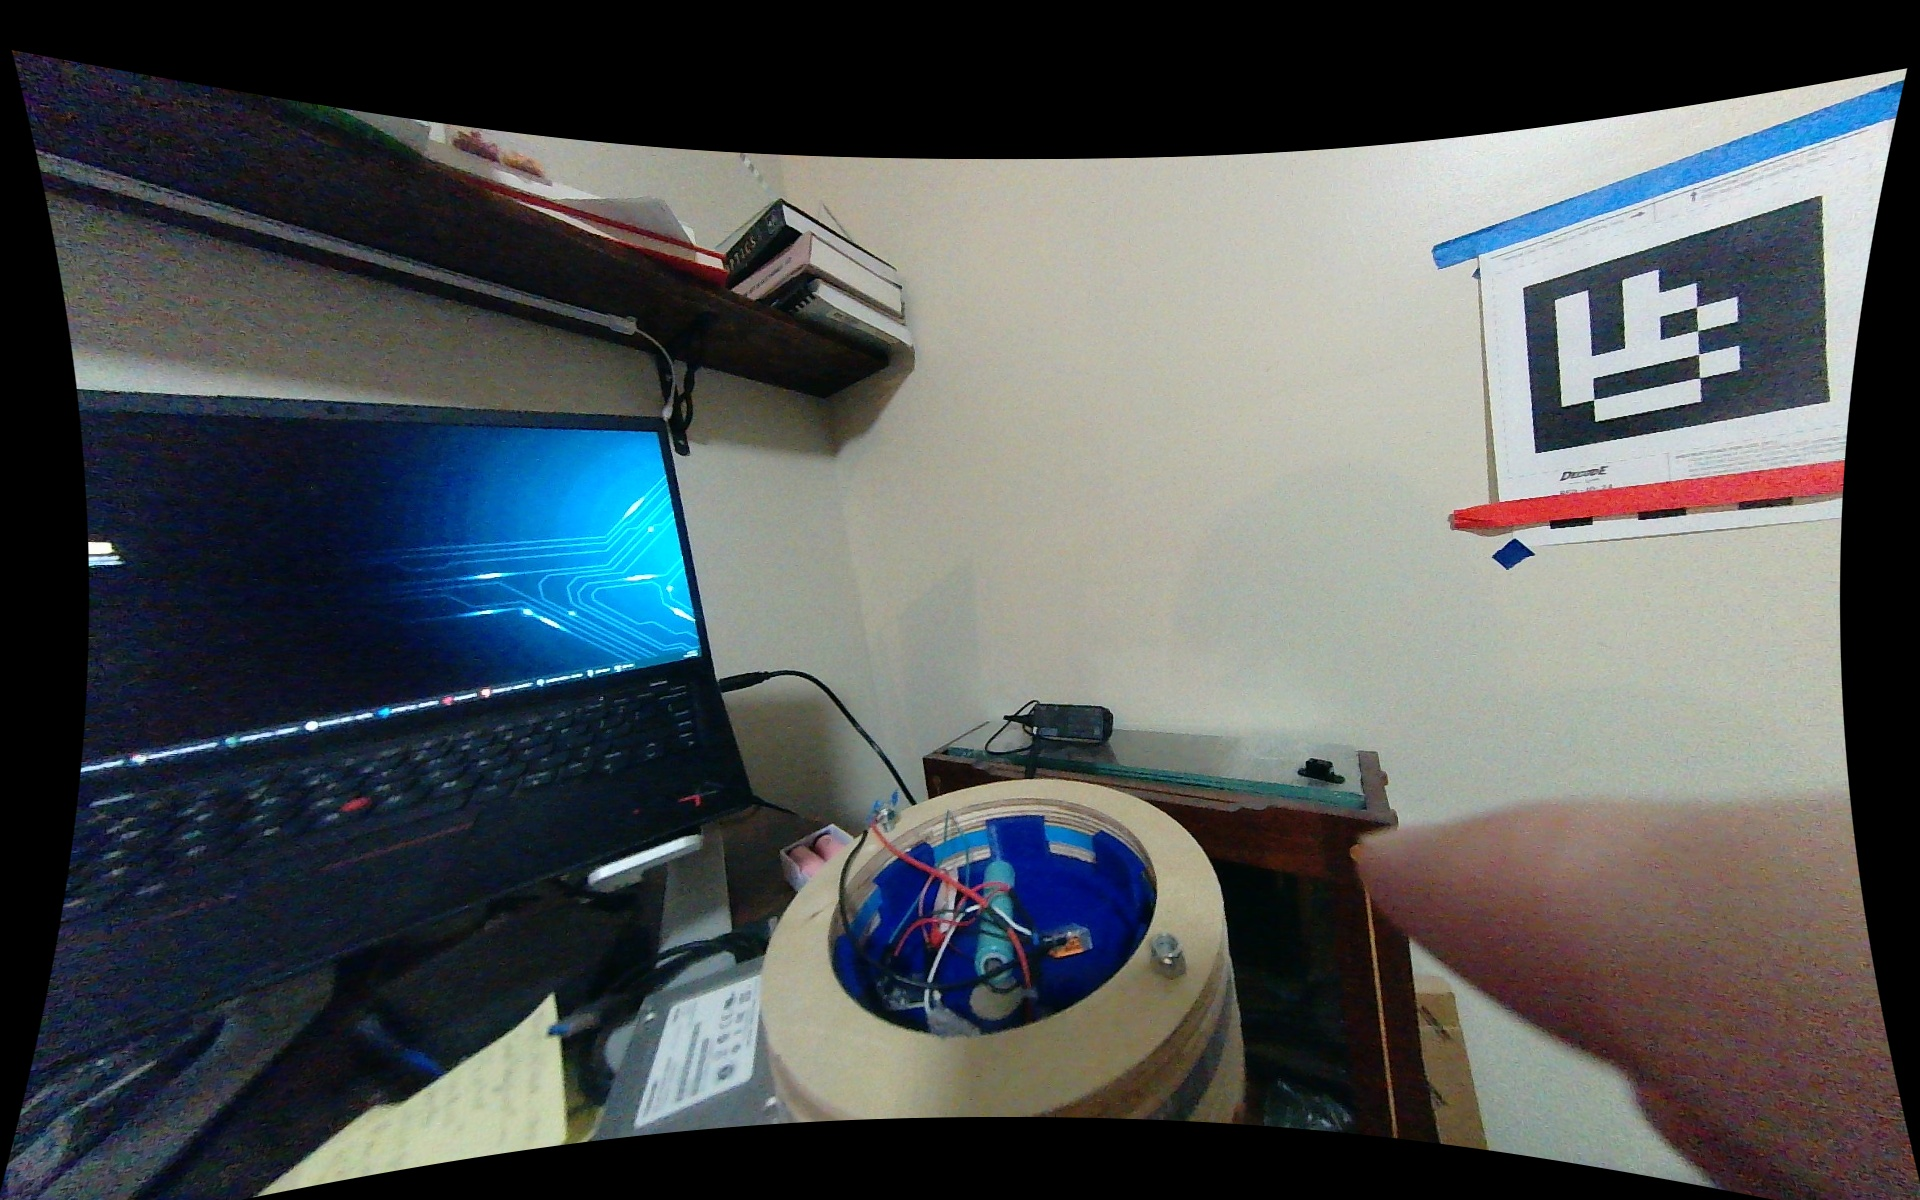
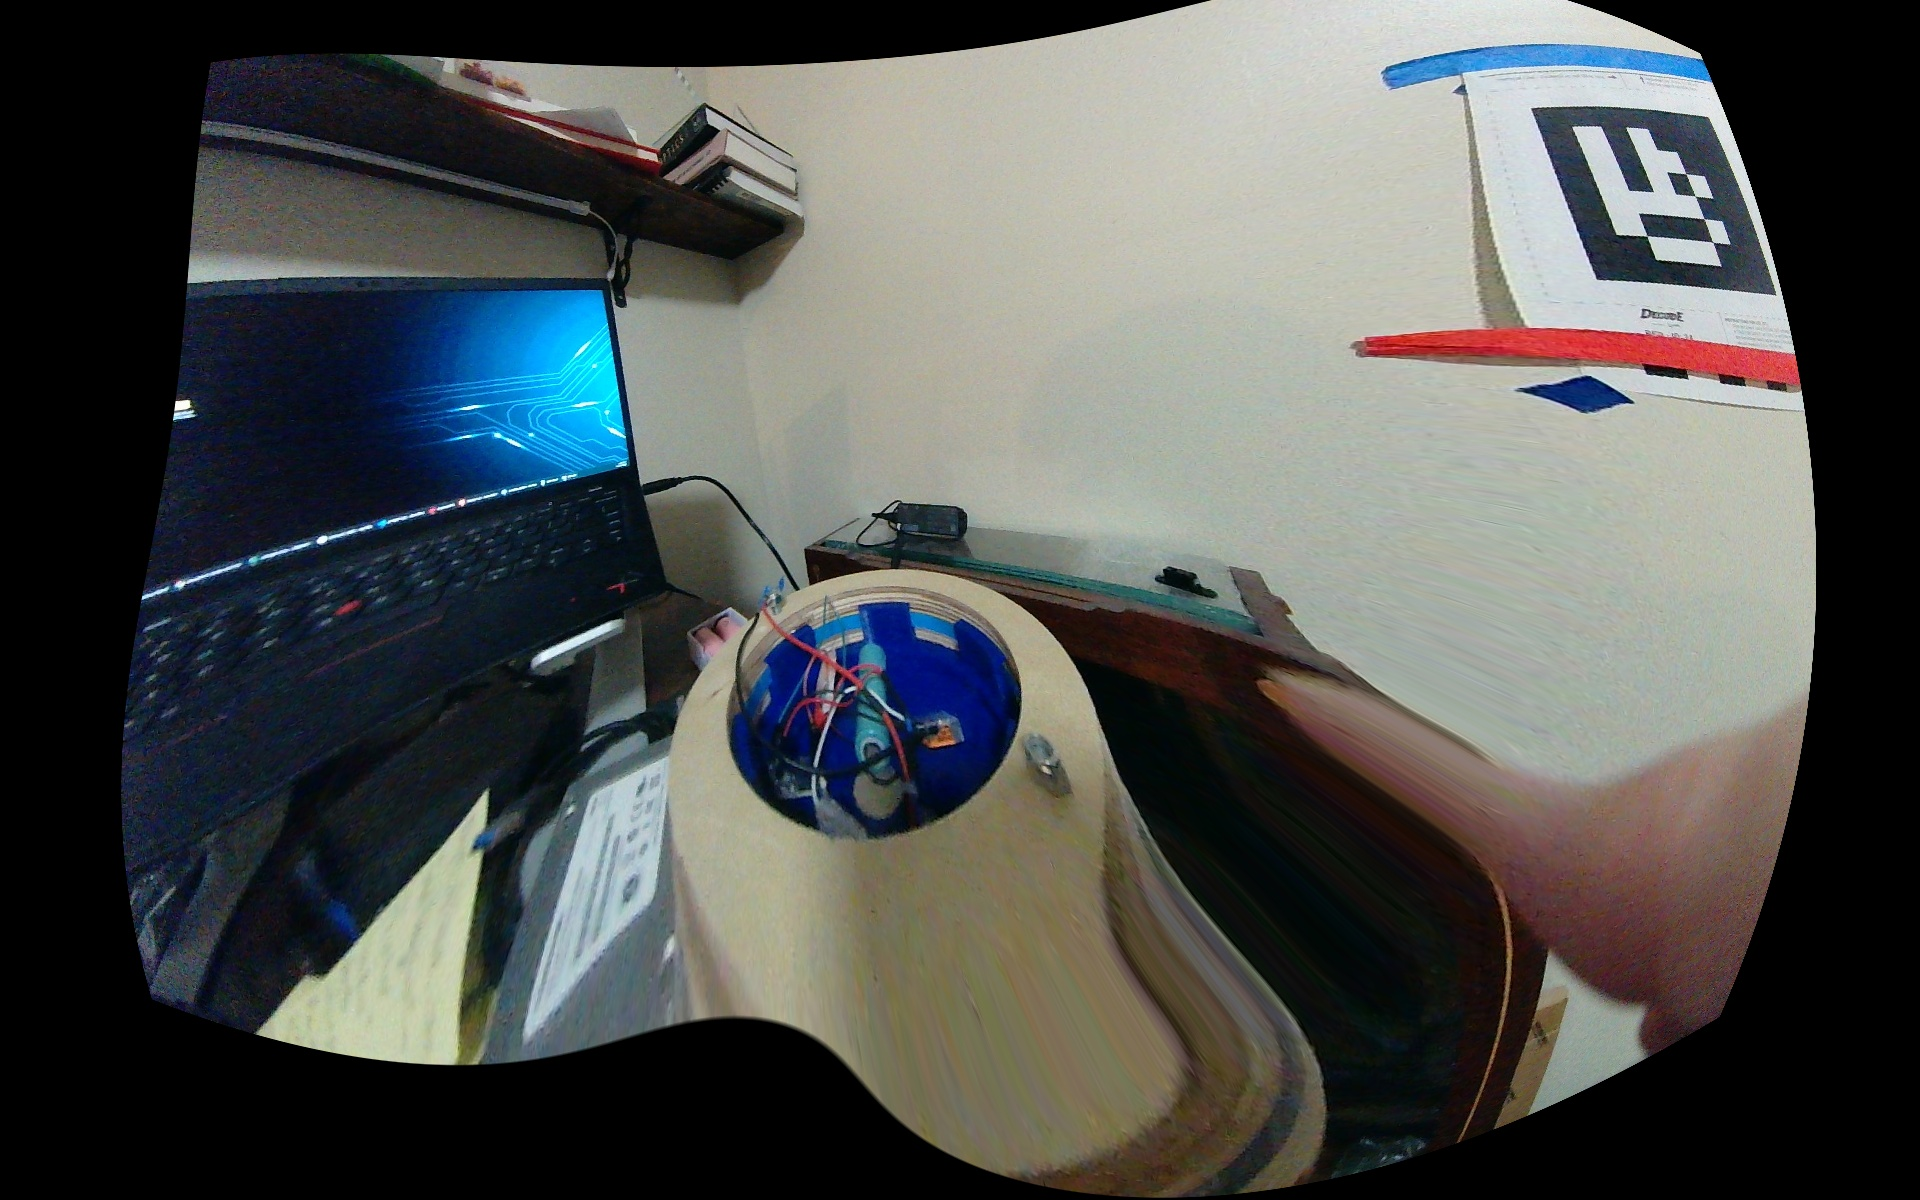
Refactoring

diff --git a/calibration.py b/calibration.py
@@ -2,21 +2,29 @@ import numpy as np
 import cv2 as cv
 import glob
 from tqdm import tqdm
+import xml.etree.cElementTree as ET
+from xml.dom.minidom import parseString
+import time
 
-width = 5
-height = 8
-
-# termination criteria
-criteria = (cv.TERM_CRITERIA_EPS + cv.TERM_CRITERIA_MAX_ITER, 30, 0.001)
-
-# prepare object points, like (0,0,0), (1,0,0), (2,0,0) ....,(6,5,0)
-objp = np.zeros((width*height,3), np.float32)
-objp[:,:2] = np.mgrid[0:width,0:height].T.reshape(-1,2)
+patternWidth = 5
+patternHeight = 8
+resolutionWidth = 1920
+resolutionHeight = 1200
+cameraName = "ELP High Speed Global Shutter 120degree"
+cameraVid = "" #ToDo find this
+cameraPid = "" #ToDo find this
 
 fx = 595.21
 fy = 595.21
 cx = 984.515
 cy = 599.035
+
+# termination criteria
+criteria = (cv.TERM_CRITERIA_EPS + cv.TERM_CRITERIA_MAX_ITER, 30, 0.001)
+
+# prepare object points, like (0,0,0), (1,0,0), (2,0,0) ....,(6,5,0)
+objp = np.zeros((patternWidth * patternHeight, 3), np.float32)
+objp[:,:2] = np.mgrid[0:patternWidth, 0:patternHeight].T.reshape(-1, 2)
 
 # Arrays to store object points and image points from all the images.
 objPoints = [] # 3d point in real world space
@@ -27,38 +35,69 @@ imgPoints = [] # 2d points in image plane.
 # | 0   fy   cy |
 # | 0    0    1 |
 #  ---       ---
+
 camMatrix = np.array([np.array([fx, 0, cx]), np.array([0, fy, cy]), np.array([0, 0, 1])])
 
-images = glob.glob('calibration/*.jpg')
 i = 0
-
-for fname in tqdm(images, unit=" images", desc="Gathering data"):
+timer = time.time()
+images = glob.glob('calibration/*.jpg')
+for fileName in tqdm(images, unit=" images", desc="Gathering data"):
     i += 1
-    img = cv.imread(fname)
+    img = cv.imread(fileName)
     gray = cv.cvtColor(img, cv.COLOR_BGR2GRAY)
 
-    #cv.imwrite("gray.jpg", gray)
-
     # Find the chess board corners
-    ret, corners = cv.findChessboardCorners(gray, (width,height), None)
+    ret, corners = cv.findChessboardCorners(gray, (patternWidth, patternHeight), None)
 
     # If found, add object points, image points (after refining them)
-    if ret == True:
+    if ret:
 
         objPoints.append(objp)
 
-        corners2 = cv.cornerSubPix(gray,corners, (11,11), (-1,-1), criteria)
-        imgPoints.append(corners2)
+        corners = cv.cornerSubPix(gray,corners, (11,11), (-1,-1), criteria)
+        imgPoints.append(corners)
 
-        # Draw and display the corners
-        # cv.drawChessboardCorners(img, (width,height), corners2, ret)
-        #cv.imwrite("corners.jpg", img)
+print("\nDone gathering data! Finished in {}s for {} images. Avg {}ms / image".format((time.time() - timer), len(images), (1000*(time.time() - timer))/len(images)))
 
-cv.destroyAllWindows()
+print("\nCalibrating matrices:")
 
-print("Calibrating matrices:")
+timer = time.time_ns()
 ret, mtx, dist, rvecs, tvecs = cv.calibrateCamera(objPoints, imgPoints, gray.shape[::-1], None, None, flags=cv.CALIB_RATIONAL_MODEL)
+print("\nDone calibrating! Finished in {}ms".format((time.time_ns() - timer)/1000000))
 
 file = "results.npz"
 np.savez(file, mtx, dist, camMatrix)
-print("Results saved to '{}'!".format(file))
+print("\nnpz results saved to '{}'!".format(file))
+print("\nSaving to xml:")
+
+# Create XML file using camMatrix and distortion coefficients
+coefficients = dist[0]
+
+coefficientsAsString = (str(coefficients[0]) + "f, " +
+                        str(coefficients[1]) + "f, " +
+                        str(coefficients[2]) + "f, " +
+                        str(coefficients[3]) + "f, " +
+                        str(coefficients[4]) + "f, " +
+                        str(coefficients[5]) + "f, " +
+                        str(coefficients[6]) + "f")
+
+root = ET.Element("Calibrations")
+
+camera = ET.SubElement(root, "Camera", vid=cameraVid, pid=cameraPid)
+
+camera.insert(1, ET.Comment(cameraName + " - Calibrated using OpenCV tooling by Team 19410. Calibrated to 8 distortion coefficients "))
+
+
+calibration = ET.SubElement(camera, "Calibration",
+                            size                   = str(resolutionWidth) + " " + str(resolutionHeight),
+                            focalLength            = str(fx) + "f, " + str(fy) + "f",
+                            principalPoint         = str(cx) + "f, " + str(cy) + "f",
+                            distortionCoefficients = coefficientsAsString)
+
+xmlString = parseString(ET.tostring(root, 'utf-8', xml_declaration=False)).toprettyxml(indent="     ").replace("<?xml version=\"1.0\" ?>", "<?xml version='1.0' encoding='UTF-8' standalone='yes' ?>")
+
+with open("calibrated.xml", "w") as file:
+    file.writelines(xmlString)
+
+
+

diff --git a/undistort.py b/undistort.py
@@ -26,7 +26,4 @@ for fname in tqdm(distorted, unit=" images", desc="Undistorting"):
 
     path = "undistorted/" + (fname.split("/", 1)[1])
 
-    # print(path)
     cv.imwrite(path, dst)
-    # cv.imshow("undistorted", dst)
-    # cv.waitKey(2000)

diff --git a/README.md b/README.md
@@ -1,1 +1,26 @@
 # OpenCV-Calibration
+
+Pretty easy
+Put .jpg files in calibration folder, put as many pictures of the same checkered pattern as you can in here. If needed.
+
+In calibration.py, fill in the values as follows:
+
+```
+patternWidth - Countable intersections on the checker pattern horizontally.
+patternHeight - Countable intersections on the checker pattern vertically.
+```
+Note: This only counts intersections that can be identified by OpenCV, so if the corner is white, and the surrounding is white, so that you can't visually see the intersection, it doesn't count in the pattern count.
+```
+resolutionWidth - Width, in pixels, of the images.
+resolutionHeight - Height, in pixels, of the images.
+```
+The following are used in the saved xml file. [You can find VID and PID here](https://www.nodeloop.org/projects/usb-identifer)
+```
+cameraName - Name of the camera - cosmetic
+cameraVid - Vender ID of the camera - used by the FTC SDK to identify when to use the generated calibration file
+cameraPid - Product ID of the camera - used by the FTC SDK to identify when to use the generated calibration file
+```
+
+Once these are set, you can run calibration.py. Depending on how many pictures you have, this may take a long time.
+<br><br>After it's finished, you should get a calibrated.xml and results.npz file in the project root. If you're missing modules, run `pip3 install -r requirements.txt` to install all required modules.
+<br><br>If you'd like, you can put images in the distorted folder, and run undistort.py to use the calibrated values to undistort the images, the undistorted images will then be placed in the undistorted directory, with the same name as their original. The result is <b>not</b> cropped, and should have divots on each side.
